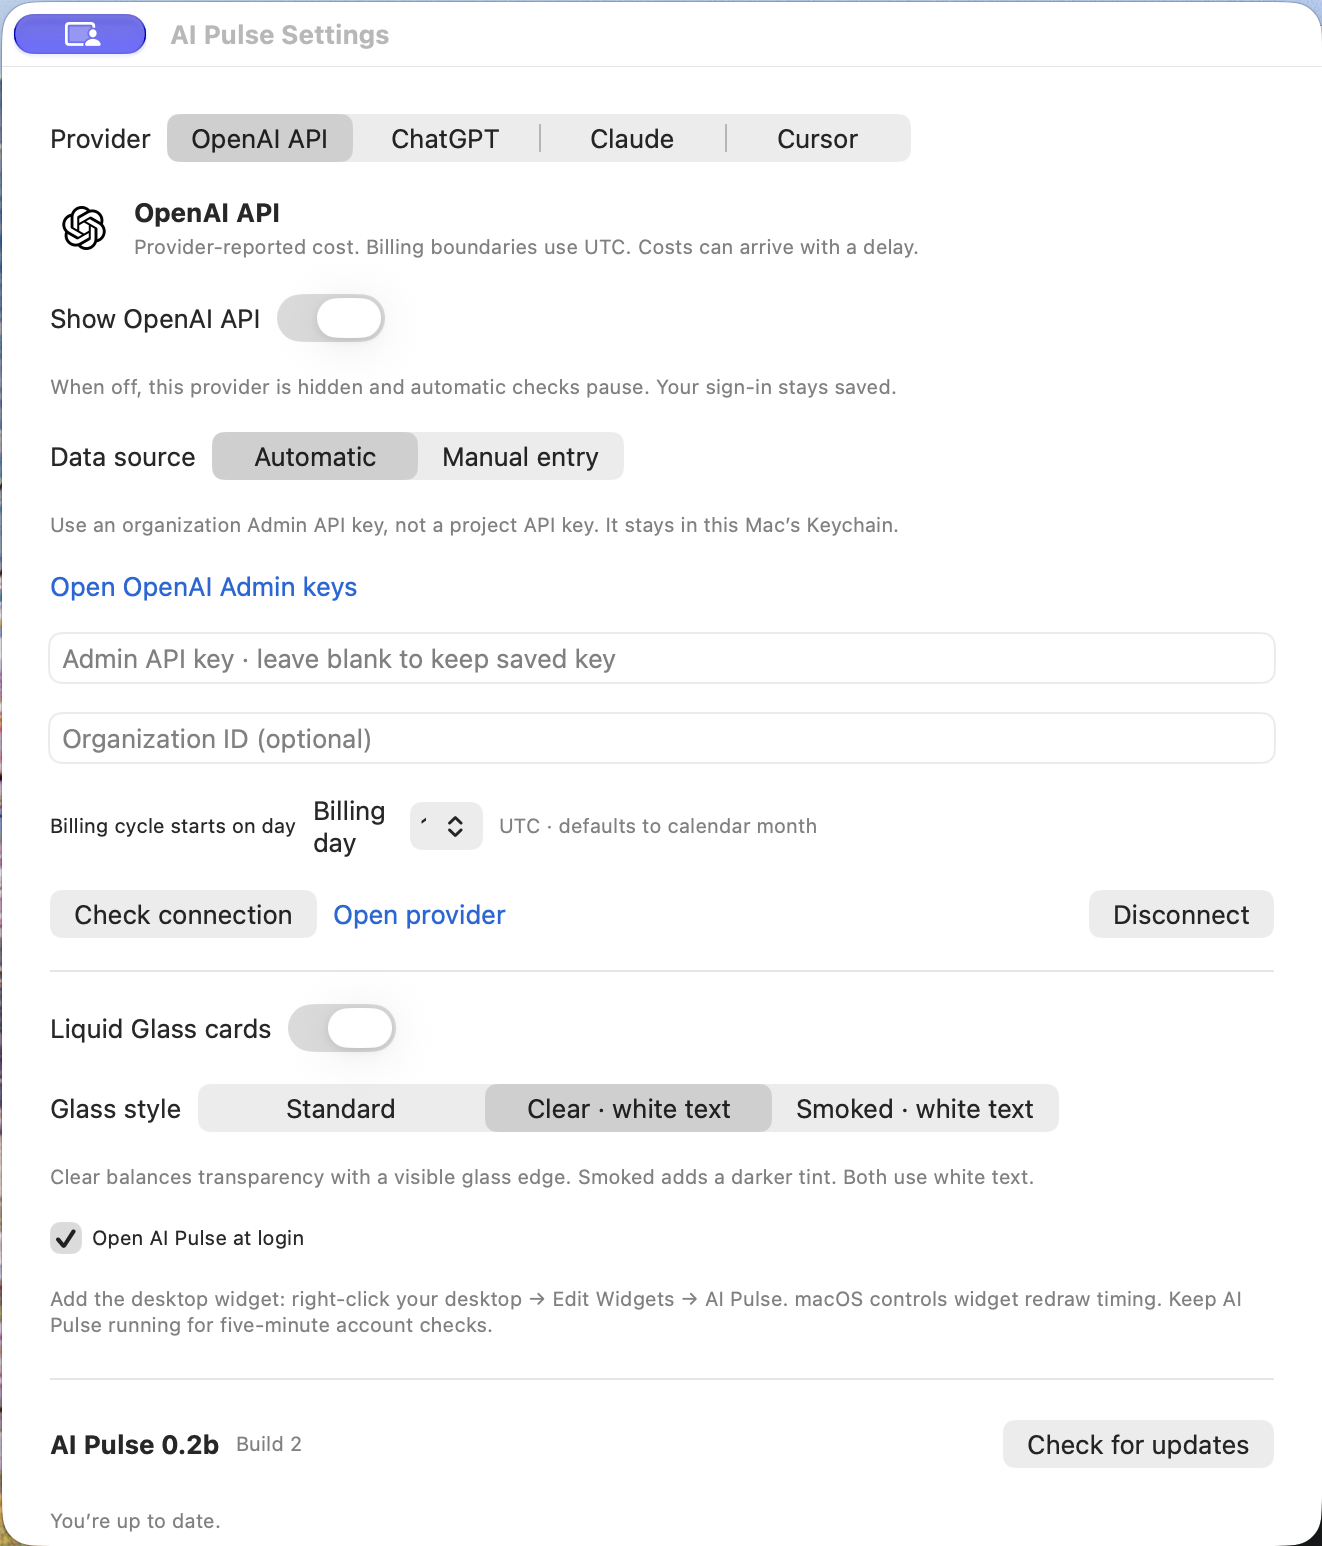
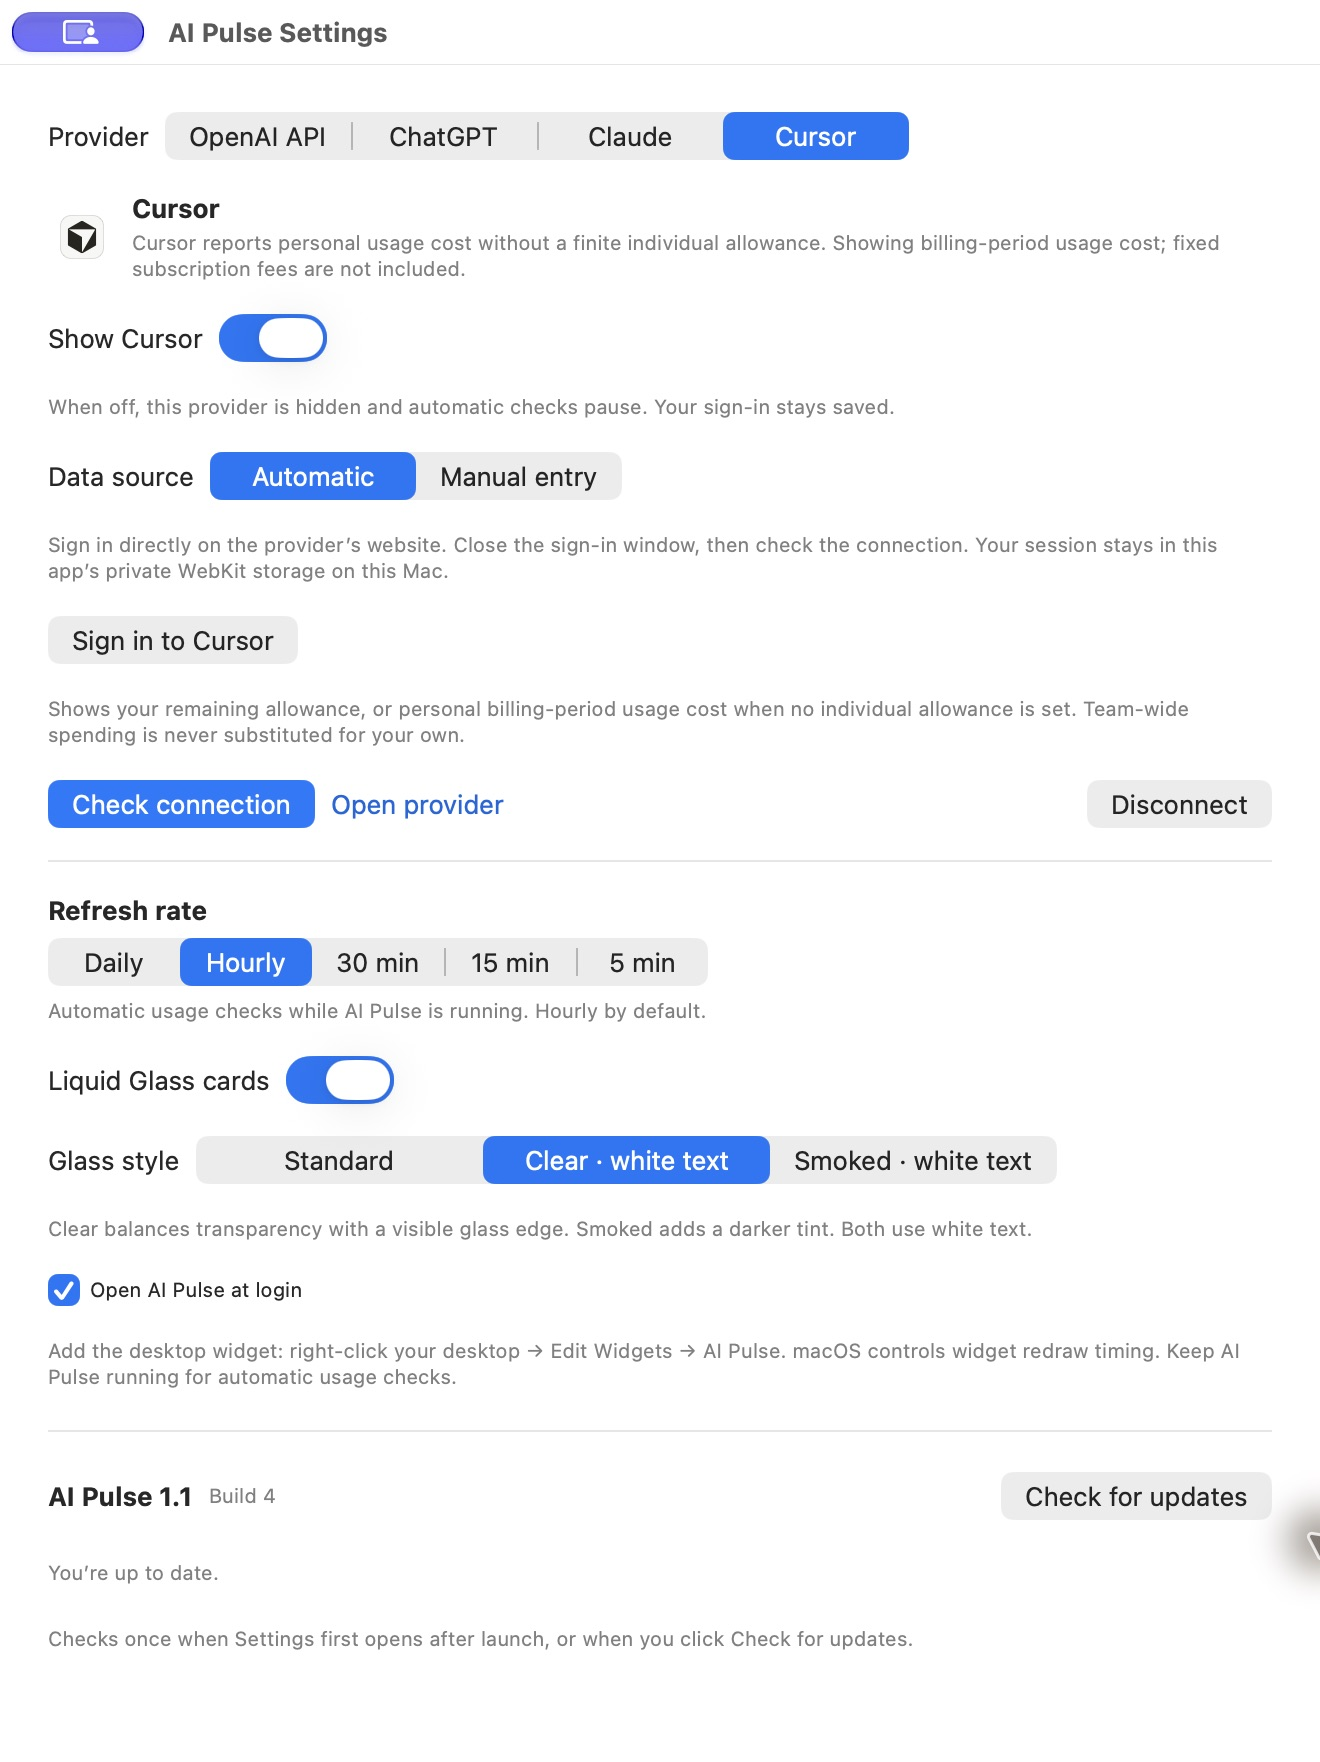
Release AI Pulse 1.1 with configurable usage refresh intervals

diff --git a/App/PulseStore.swift b/App/PulseStore.swift
@@ -42,6 +42,9 @@ import ServiceManagement
     @Published var error: String?
     @Published var organizations: [(id: String, name: String)] = []
     @Published var launchAtLogin = SMAppService.mainApp.status == .enabled
+    @Published private(set) var refreshInterval: UsageRefreshInterval = .hourly
+    private var usageTimer: Timer?
+    private var lastAutomaticRefresh: Date?
     private var sessions: [Provider: BrowserSession] = [:]
     private var timers = Set<AnyCancellable>()
     private var retryAfter: [Provider: Date] = [:]
@@ -57,7 +60,10 @@ import ServiceManagement
         for index in configurations.indices where configurations[index].provider == .chatgpt && !configurations[index].manualSaved && !configurations[index].connected {
             configurations[index].mode = .automatic
         }
+        refreshInterval = UsageRefreshInterval.saved(defaults.integer(forKey: "usage-refresh-interval"))
+        lastAutomaticRefresh = defaults.object(forKey: "last-automatic-usage-refresh") as? Date
         if demo { readings = Self.demoReadings; return }
+        applyFreshnessWindow()
         let savedOrder = (defaults.stringArray(forKey: "provider-order") ?? []).compactMap(Provider.init(rawValue:))
         providerOrder = (savedOrder + Provider.allCases).reduce(into: []) { order, provider in
             if !order.contains(provider) { order.append(provider) }
@@ -66,13 +72,43 @@ import ServiceManagement
         if !savedRows.isEmpty { cardRows = CardArrangement.normalized(savedRows, including: providerOrder) }
         hiddenProviders = Set(defaults.stringArray(forKey: "hidden-providers") ?? [])
         syncWidget()
-        Timer.publish(every: 300, tolerance: 20, on: .main, in: .common).autoconnect().sink { [weak self] _ in
-            Task { await self?.refreshAll() }
-        }.store(in: &timers)
+        scheduleUsageRefresh()
         NSWorkspace.shared.notificationCenter.publisher(for: NSWorkspace.didWakeNotification).sink { [weak self] _ in
-            Task { @MainActor in await self?.refreshAll() }
+            Task { @MainActor in await self?.refreshAutomaticallyIfDue() }
         }.store(in: &timers)
-        Task { await refreshAll() }
+    }
+    func setRefreshInterval(_ interval: UsageRefreshInterval) {
+        guard !demo, interval != refreshInterval else { return }
+        refreshInterval = interval
+        defaults.set(interval.rawValue, forKey: "usage-refresh-interval")
+        applyFreshnessWindow()
+        syncWidget()
+        scheduleUsageRefresh()
+    }
+    private func applyFreshnessWindow() {
+        for index in readings.indices { readings[index].staleAfterSeconds = refreshInterval.freshnessWindow }
+        if let data = try? JSONEncoder().encode(readings) { defaults.set(data, forKey: "readings-v1") }
+    }
+    private func scheduleUsageRefresh() {
+        usageTimer?.invalidate()
+        guard !demo else { return }
+        let date = refreshInterval.nextCheck(after: lastAutomaticRefresh, now: Date())
+        let timer = Timer(fire: date, interval: 0, repeats: false) { [weak self] _ in
+            Task { @MainActor in await self?.refreshAutomaticallyIfDue() }
+        }
+        usageTimer = timer
+        RunLoop.main.add(timer, forMode: .common)
+    }
+    private func refreshAutomaticallyIfDue() async {
+        let now = Date()
+        guard refreshInterval.isDue(after: lastAutomaticRefresh, now: now) else {
+            scheduleUsageRefresh()
+            return
+        }
+        lastAutomaticRefresh = now
+        defaults.set(now, forKey: "last-automatic-usage-refresh")
+        scheduleUsageRefresh()
+        await refreshAll()
     }
     func settings(_ provider: Provider) -> ProviderSettings { configurations.first { $0.provider == provider } ?? ProviderSettings(provider: provider) }
     func reading(_ provider: Provider) -> Reading { readings.first { $0.provider == provider } ?? Reading(provider: provider) }
@@ -96,6 +132,8 @@ import ServiceManagement
     }
     private func publish(_ reading: Reading) {
         guard !demo else { return }
+        var reading = reading
+        reading.staleAfterSeconds = refreshInterval.freshnessWindow
         if let index = readings.firstIndex(where: { $0.provider == reading.provider }) { readings[index] = reading }
         if let data = try? JSONEncoder().encode(readings) { defaults.set(data, forKey: "readings-v1") }
         syncWidget()

diff --git a/Tests/UsageTests.swift b/Tests/UsageTests.swift
@@ -2,6 +2,40 @@ import XCTest
 @testable import AIPulseCore
 
 final class UsageTests: XCTestCase {
+    func testUsageRefreshDefaultsAndChoices() {
+        XCTAssertEqual(UsageRefreshInterval.saved(0), .hourly)
+        XCTAssertEqual(UsageRefreshInterval.saved(-1), .hourly)
+        XCTAssertEqual(UsageRefreshInterval.allCases.map(\.rawValue), [86400, 3600, 1800, 900, 300])
+        for interval in UsageRefreshInterval.allCases { XCTAssertEqual(UsageRefreshInterval.saved(interval.rawValue), interval) }
+    }
+    func testUsageRefreshDueBoundariesAndWakeResume() {
+        let previous = Date(timeIntervalSince1970: 100000)
+        for interval in UsageRefreshInterval.allCases {
+            let due = previous.addingTimeInterval(interval.seconds)
+            XCTAssertFalse(interval.isDue(after: previous, now: due.addingTimeInterval(-1)))
+            XCTAssertTrue(interval.isDue(after: previous, now: due))
+            XCTAssertEqual(interval.nextCheck(after: previous, now: previous), due)
+            XCTAssertTrue(interval.isDue(after: previous, now: due.addingTimeInterval(3600)))
+        }
+        XCTAssertTrue(UsageRefreshInterval.hourly.isDue(after: nil, now: previous))
+        XCTAssertTrue(UsageRefreshInterval.hourly.isDue(after: previous.addingTimeInterval(10), now: previous))
+        let later = previous.addingTimeInterval(1800)
+        XCTAssertFalse(UsageRefreshInterval.hourly.isDue(after: previous, now: later))
+        XCTAssertTrue(UsageRefreshInterval.fifteenMinutes.isDue(after: previous, now: later))
+    }
+    func testReadingFreshnessFollowsSelectedRefreshRate() throws {
+        let fetched = Date(timeIntervalSince1970: 100000)
+        for interval in UsageRefreshInterval.allCases {
+            var reading = Reading(provider: .openai, value: 10, fetchedAt: fetched, state: .ready)
+            reading.staleAfterSeconds = interval.freshnessWindow
+            XCTAssertFalse(reading.isStale(at: fetched.addingTimeInterval(interval.seconds)))
+            XCTAssertTrue(reading.isStale(at: fetched.addingTimeInterval(interval.freshnessWindow + 1)))
+            reading.state = .failed
+            XCTAssertTrue(reading.isStale(at: fetched))
+        }
+        let legacy = try JSONDecoder().decode(Reading.self, from: JSONEncoder().encode(Reading(provider: .openai)))
+        XCTAssertNil(legacy.staleAfterSeconds)
+    }
     func testUpdateChecksOnlyOnFirstSettingsOpeningPerSession() {
         var policy = UpdateCheckPolicy()
         XCTAssertFalse(policy.hasOpenedSettings)
@@ -227,16 +261,7 @@ final class CostClientTests: XCTestCase {
         let configuration = URLSessionConfiguration.ephemeral
         configuration.protocolClasses = [StubURLProtocol.self]
         let session = URLSession(configuration: configuration)
-        func testUpdateChecksOnlyOnFirstSettingsOpeningPerSession() {
-        var policy = UpdateCheckPolicy()
-        XCTAssertFalse(policy.hasOpenedSettings)
-        XCTAssertTrue(policy.settingsOpened())
-        XCTAssertFalse(policy.settingsOpened())
-        XCTAssertFalse(policy.settingsOpened())
-        var nextSession = UpdateCheckPolicy()
-        XCTAssertTrue(nextSession.settingsOpened())
-    }
-    let now = UsageParser.date("2026-09-25T10:00:00Z")!
+        let now = UsageParser.date("2026-09-25T10:00:00Z")!
         var requests = 0
         StubURLProtocol.handler = { request in
             requests += 1

diff --git a/App/ConnectionsView.swift b/App/ConnectionsView.swift
@@ -49,6 +49,14 @@ struct ConnectionsView: View {
                 }.disabled(store.busy.contains(store.selected))
             }
             Divider()
+            VStack(alignment: .leading, spacing: 6) {
+                Text("Refresh rate").font(.headline)
+                Picker("Refresh rate", selection: Binding(get: { store.refreshInterval }, set: { store.setRefreshInterval($0) })) {
+                    ForEach(UsageRefreshInterval.allCases) { interval in Text(interval.title).tag(interval) }
+                }.pickerStyle(.segmented).labelsHidden()
+                Text("Automatic usage checks while AI Pulse is running. Hourly by default.")
+                    .font(.caption).foregroundStyle(.secondary)
+            }
             Toggle("Liquid Glass cards", isOn: $liquidGlass).toggleStyle(.switch)
             if liquidGlass {
                 Picker("Glass style", selection: $glassStyle) {
@@ -59,7 +67,7 @@ struct ConnectionsView: View {
             }
             Toggle("Open AI Pulse at login", isOn: Binding(get: { store.launchAtLogin }, set: { store.setLogin($0) }))
                 .font(.caption)
-            Text("Add the desktop widget: right-click your desktop → Edit Widgets → AI Pulse. macOS controls widget redraw timing. Keep AI Pulse running for five-minute account checks.")
+            Text("Add the desktop widget: right-click your desktop → Edit Widgets → AI Pulse. macOS controls widget redraw timing. Keep AI Pulse running for automatic usage checks.")
                 .font(.caption).foregroundStyle(.secondary).fixedSize(horizontal: false, vertical: true)
         }
         .disabled(store.demo)

diff --git a/Shared/UsageRefreshInterval.swift b/Shared/UsageRefreshInterval.swift
@@ -1,0 +1,32 @@
+import Foundation
+
+/// Provider polling only; Sparkle software-update checks have a separate policy.
+enum UsageRefreshInterval: Int, CaseIterable, Identifiable {
+    case daily = 86400
+    case hourly = 3600
+    case thirtyMinutes = 1800
+    case fifteenMinutes = 900
+    case fiveMinutes = 300
+
+    var id: Int { rawValue }
+    var seconds: TimeInterval { TimeInterval(rawValue) }
+    var title: String {
+        switch self {
+        case .daily: "Daily"
+        case .hourly: "Hourly"
+        case .thirtyMinutes: "30 min"
+        case .fifteenMinutes: "15 min"
+        case .fiveMinutes: "5 min"
+        }
+    }
+    static func saved(_ value: Int) -> Self { Self(rawValue: value) ?? .hourly }
+    var freshnessWindow: TimeInterval { max(900, seconds + 300) }
+    func nextCheck(after lastAttempt: Date?, now: Date) -> Date {
+        // A clock moving backwards must not suppress checks for an entire interval.
+        guard let lastAttempt, lastAttempt <= now else { return now }
+        return max(now, lastAttempt.addingTimeInterval(seconds))
+    }
+    func isDue(after lastAttempt: Date?, now: Date) -> Bool {
+        nextCheck(after: lastAttempt, now: now) <= now
+    }
+}

diff --git a/Shared/Models.swift b/Shared/Models.swift
@@ -32,6 +32,7 @@ struct Reading: Codable, Equatable, Identifiable, Sendable {
     var periodStart: Date?
     var periodEnd: Date?
     var window = ""
+    var staleAfterSeconds: TimeInterval?
     var fetchedAt: Date?
     var state: ReadingState = .disconnected
     var detail = "Connect your account in AI Pulse."
@@ -40,7 +41,7 @@ struct Reading: Codable, Equatable, Identifiable, Sendable {
 
     func isExpired(at now: Date) -> Bool { periodEnd.map { $0 <= now } ?? false }
     func isStale(at now: Date) -> Bool {
-        !manual && (state != .ready || fetchedAt.map { now.timeIntervalSince($0) > 900 } ?? true)
+        !manual && (state != .ready || fetchedAt.map { now.timeIntervalSince($0) > (staleAfterSeconds ?? 900) } ?? true)
     }
     func headline(at now: Date = Date()) -> String {
         guard !isExpired(at: now), let value else {

diff --git a/README.md b/README.md
@@ -8,7 +8,7 @@ A native macOS menu-bar app and desktop dashboard for AI subscription usage. Eac
 
 Download the **AI Pulse DMG** from [GitHub Releases](https://github.com/mbosschaart/AI-Pulse/releases/latest), open it, and drag **AI Pulse.app** to Applications. A ZIP download is also available. Requires macOS 14 or later; native Liquid Glass styles require macOS 26 or later.
 
-Version **1.0** is the first full release, Developer ID signed and notarized by Apple.
+Version **1.1** is Developer ID signed and notarized by Apple.
 
 ## Use
 
@@ -18,7 +18,7 @@ Version **1.0** is the first full release, Developer ID signed and notarized by 
 - Drag normally to move the dashboard. Hold **Shift** to move a card. The full card follows the pointer; an edge highlight previews its placement. Drop near top/bottom to create a row, or left/right to join one. Out-of-range drops cancel without exporting clipping files.
 - Each provider configuration has a Show switch. Hidden providers retain their sign-in and pause automatic account checks.
 - Settings offers Liquid Glass in Standard, Clear with white text, or Smoked with white text. The selected style is saved.
-- Cards have individual refresh icons; Compact has one bottom-right refresh icon for all visible providers. Account usage refreshes approximately every five minutes while awake, independently of software update checks.
+- Cards have individual refresh icons; Compact has one bottom-right refresh icon for all visible providers. Choose automatic usage checks in Settings: **Daily**, **Hourly** (the default), **30 min**, **15 min**, or **5 min**. Manual refresh is always available, independently of software update checks.
 - Add the WidgetKit widget through desktop → Edit Widgets → AI Pulse. macOS controls widget redraw timing.
 
 ### Toolbar view
@@ -47,9 +47,11 @@ Manual cost/percentage entry is also available. Manual values do not auto-renew.
 
 ### Settings
 
-Manage provider connections, choose which cards appear, and change the glass style. Move Settings beside the cards to preview your changes.
+Manage provider connections, choose which cards appear, set the refresh rate, and change the glass style. Move Settings beside the cards to preview your changes.
 
-<img src="screenshots/Screenshot_settings.png" alt="AI Pulse Settings showing provider connections, visibility, Liquid Glass styles, and update controls" width="560">
+<img src="screenshots/Screenshot_settings.png" alt="AI Pulse 1.1 Settings showing the refresh rate options with Hourly selected, provider connections, and appearance controls" width="560">
+
+The refresh rate is saved across launches and applies to enabled providers. After sleep, an overdue check runs when the Mac wakes. Longer intervals keep readings valid until their next scheduled check; failed checks and expired allowances remain clearly marked. Desktop widget redraw timing is still controlled by macOS.
 
 ## Software updates
 

diff --git a/RELEASE_NOTES.md b/RELEASE_NOTES.md
@@ -1,19 +1,19 @@
-# AI Pulse 1.0
+# AI Pulse 1.1
 
-The first full release of AI Pulse, Developer ID signed and notarized by Apple for macOS 14 and later. Supports Apple Silicon and Intel.
+Choose how often AI Pulse refreshes your usage in Settings:
 
-- OpenAI API, ChatGPT Work/Codex, Claude, and Cursor usage cards.
-- Saved card arrangements and a tightly spaced Compact view.
-- Liquid Glass styles, including balanced Clear glass with fully white text.
-- One bottom-right refresh-all icon in Compact; individual refresh controls in Cards.
-- Movable Settings with live appearance changes, provider visibility, and version information.
-- Signed in-place updates, checked on the first Settings opening per session or manually.
-- About credit: Designed by Martijn Bosschaart, 2026.
+- Daily
+- Hourly — the new default
+- Every 30 minutes
+- Every 15 minutes
+- Every 5 minutes
+
+Your selection is saved and takes effect immediately. Manual refresh remains available. After sleep, AI Pulse checks when the selected interval is due. Readings use the selected interval when determining whether they are stale.
+
+The Settings screenshot in the README has been updated to show the new controls. Software-update checks remain separate: once when Settings first opens per session, or when you click Check for updates.
 
 ## Install
 
-Download **AI-Pulse-1.0.dmg**, open it, and drag **AI Pulse.app** to Applications. The **AI-Pulse-macOS.zip** contains the same notarized app. Both packages include Apple's stapled notarization ticket; SHA256SUMS.txt lists download checksums.
+Download **AI-Pulse-1.1.dmg** and drag AI Pulse to Applications, or use **AI-Pulse-macOS.zip**. Both contain the Developer ID signed, Apple-notarized app with a stapled ticket. SHA256SUMS.txt includes checksums.
 
-Existing users can open Settings and choose **Check for updates** to install in place, preserving connections and layout. GitHub may take a few minutes to refresh the update feed after publication.
-
-Native Liquid Glass requires macOS 26 or later. Provider dashboard integrations depend on their current endpoints; ChatGPT’s displayed allowance is specifically Work/Codex usage.
+Existing users can install through Settings → Check for updates. Requires macOS 14 or later; native Liquid Glass requires macOS 26 or later.
